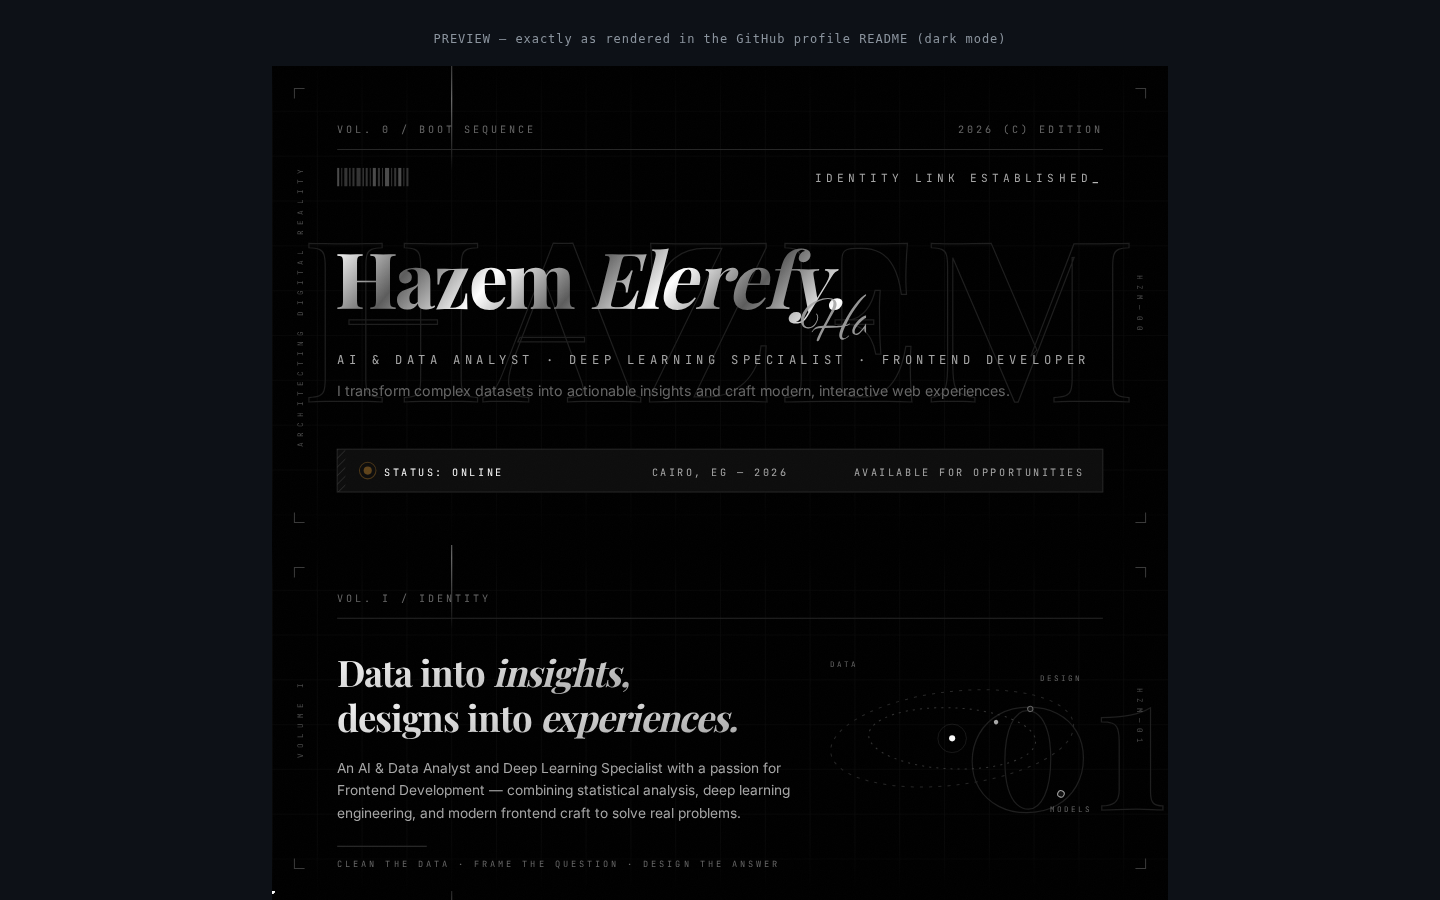
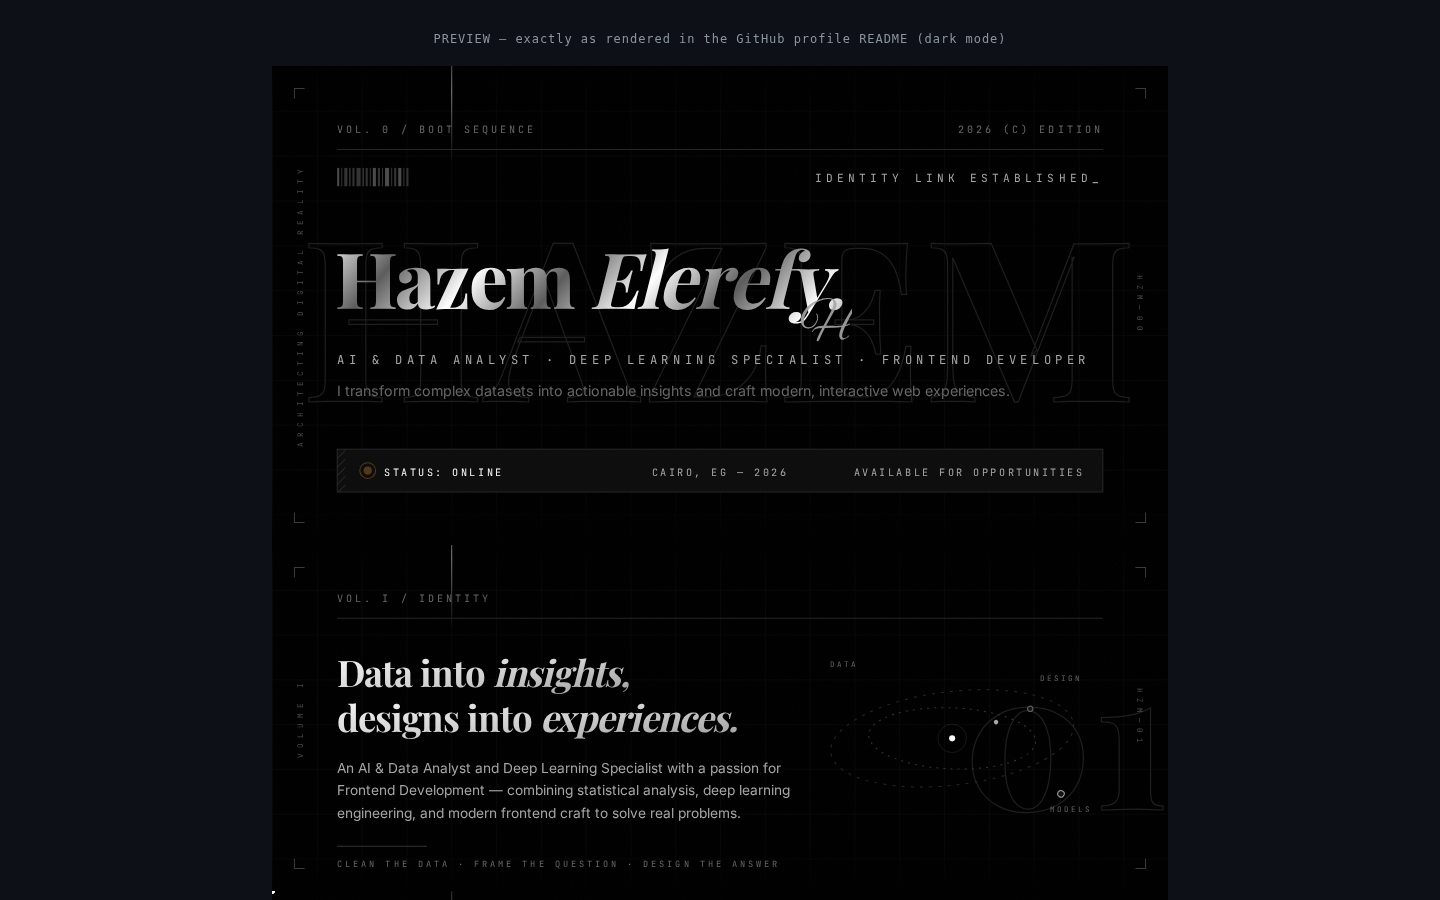
Render light version in preview

Changed region(s): [[0.2188, 0.28, 0.5938, 0.3733]]

diff --git a/index.html b/index.html
@@ -1,36 +1,14 @@
 <!doctype html>
-<html lang="en">
-<head>
-<meta charset="utf-8">
-<meta name="viewport" content="width=device-width, initial-scale=1">
-<title>HAZEM.WORLD — README preview</title>
-<style>
-  body{margin:0;background:#0d1117;display:flex;justify-content:center;font-family:-apple-system,'Segoe UI',sans-serif}
-  main{width:min(896px,100%);padding:32px 0 64px}
-  .note{color:#8b949e;font-size:12px;font-family:ui-monospace,monospace;letter-spacing:.08em;text-align:center;padding:0 0 20px}
-  img{display:block;width:100%}
-  .row{display:flex}
-  .row a{width:50%;display:block}
-</style>
-</head>
-<body>
-<main>
-  <div class="note">PREVIEW — exactly as rendered in the GitHub profile README (dark mode)</div>
-  <img src="world/assets/vol0-boot.svg" alt="Vol 0 boot">
-  <img src="world/assets/vol1-identity.svg" alt="Vol I identity">
-  <a href="https://github.com/hazemelerefey/DigiSteel-YOLO"><img src="world/assets/vol2-core.svg" alt="Vol II core"></a>
-  <img src="world/assets/vol3-matrix.svg" alt="Vol III matrix">
-  <img src="world/assets/vol4-output.svg" alt="Vol IV output">
-  <div class="row">
-    <a href="https://github.com/hazemelerefey/JobPulse"><img src="world/assets/card-jobpulse.svg" alt="JobPulse"></a>
-    <a href="https://github.com/hazemelerefey?tab=repositories"><img src="world/assets/card-healthcare.svg" alt="Healthcare"></a>
-  </div>
-  <div class="row">
-    <a href="https://github.com/hazemelerefey?tab=repositories"><img src="world/assets/card-ecommerce.svg" alt="E-Commerce"></a>
-    <a href="https://github.com/hazemelerefey?tab=repositories"><img src="world/assets/card-azzar.svg" alt="Azzar"></a>
-  </div>
-  <img src="world/assets/vol5-frontier.svg" alt="Vol V frontier">
-  <a href="mailto:hazemelerefy@gmail.com"><img src="world/assets/vol6-comms.svg" alt="Vol VI comms"></a>
-</main>
-</body>
-</html>
+<html><head><meta charset="utf-8"><title>light preview</title>
+<style>body{margin:0;background:#ffffff;display:flex;justify-content:center}main{width:896px;padding:24px 0}img{display:block;width:100%}.row{display:flex}.row img{width:50%}</style>
+</head><body><main>
+<img src="world/assets/vol0-boot-light.svg">
+<img src="world/assets/vol1-identity-light.svg">
+<img src="world/assets/vol2-core-light.svg">
+<img src="world/assets/vol3-matrix-light.svg">
+<img src="world/assets/vol4-output-light.svg">
+<div class="row"><img src="world/assets/card-jobpulse-light.svg"><img src="world/assets/card-healthcare-light.svg"></div>
+<div class="row"><img src="world/assets/card-ecommerce-light.svg"><img src="world/assets/card-azzar-light.svg"></div>
+<img src="world/assets/vol5-frontier-light.svg">
+<img src="world/assets/vol6-comms-light.svg">
+</main></body></html>
